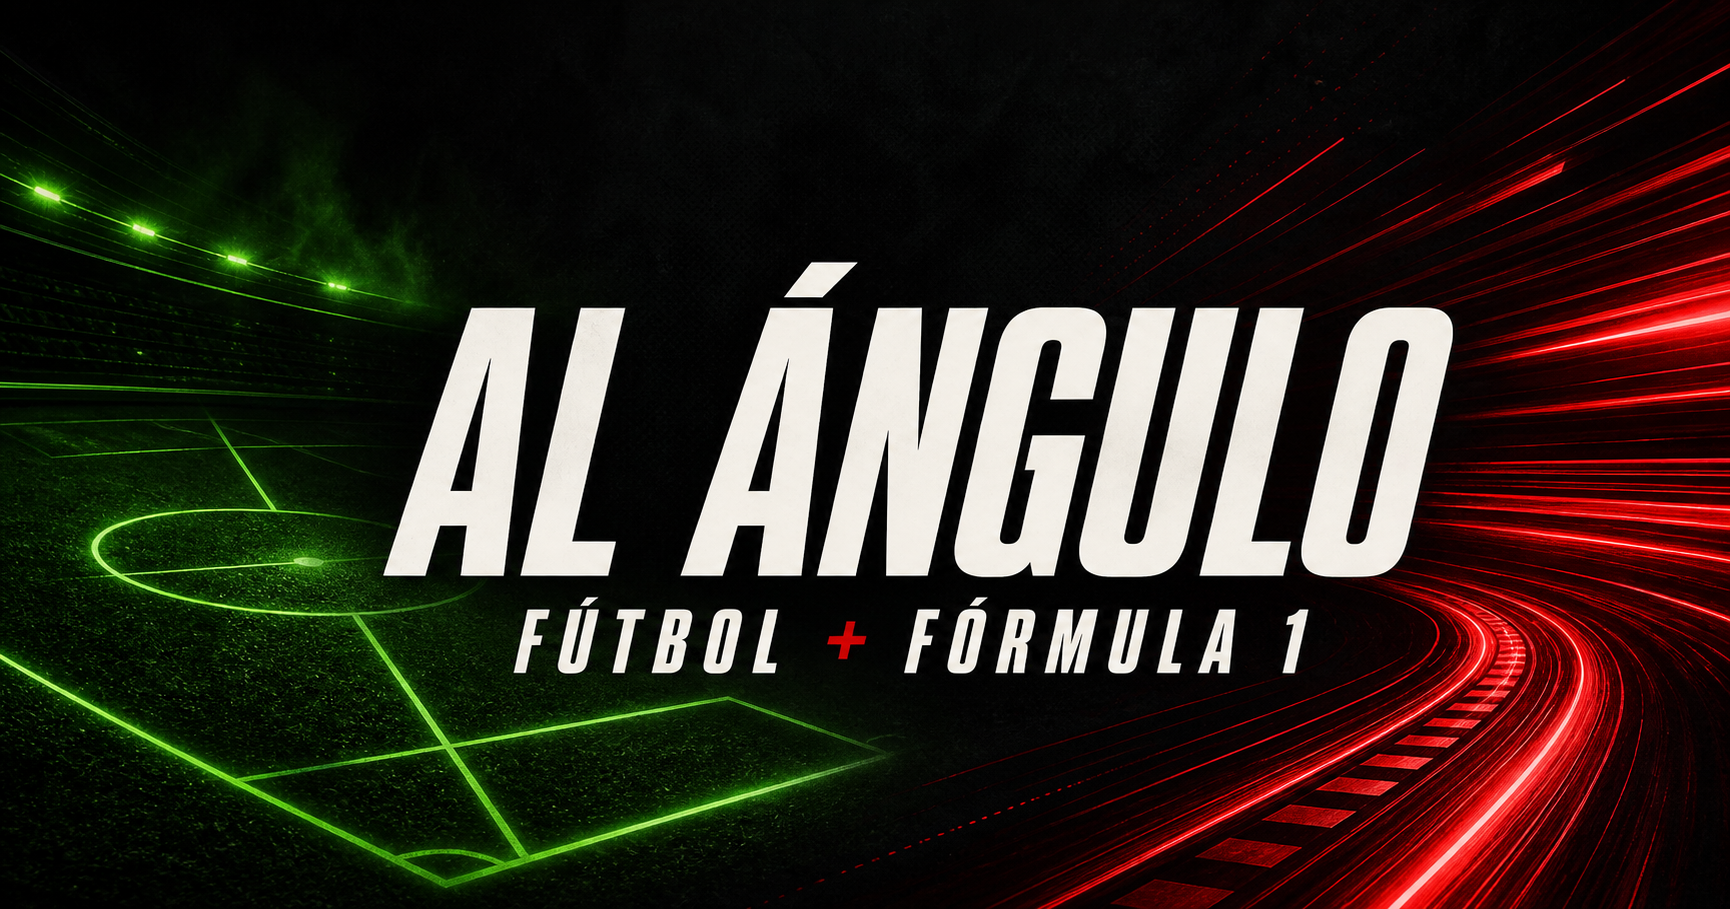
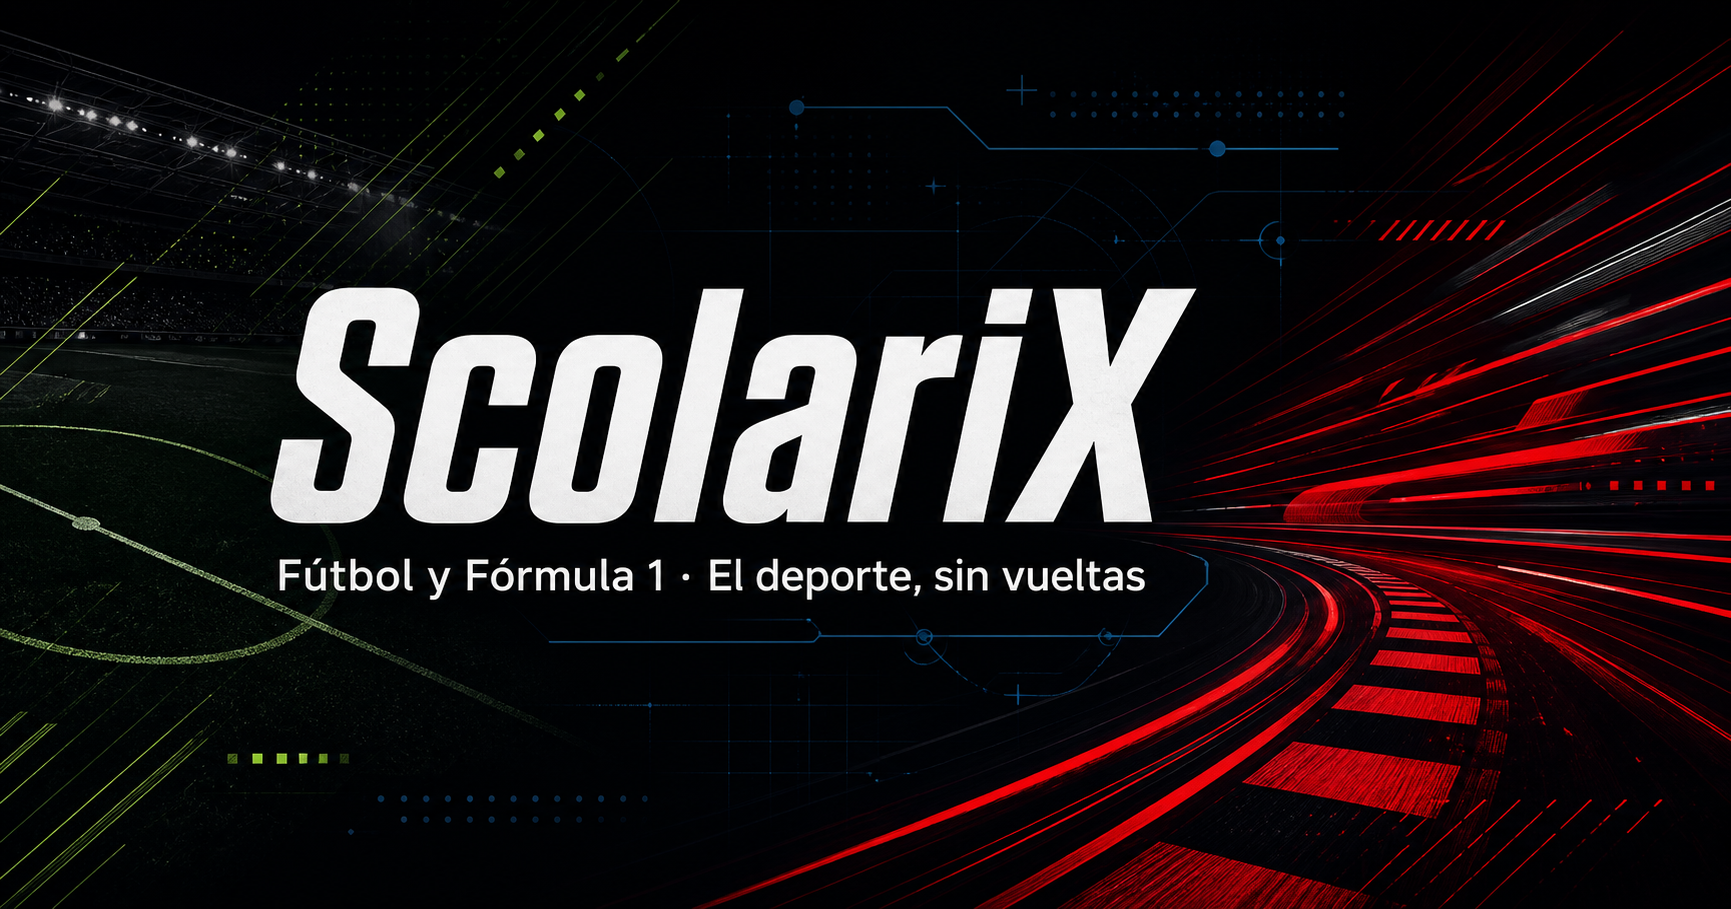
Rename site to ScolariX

diff --git a/app/page.tsx b/app/page.tsx
@@ -6,7 +6,7 @@ const PROTOTYPE_HTML = String.raw`
   <a class="skip-link" href="#contenido">Saltar al contenido</a>
   <div class="prototype-bar"><span><i></i> BETA PÚBLICA</span><p>Noticias resumidas · Datos con fuente y revisión editorial</p><time datetime="2026-08-24">Revisión: 24 AGO 2026</time></div>
   <header class="site-header">
-    <a class="brand" href="#inicio" data-route="home" aria-label="Al Ángulo, portada"><span class="brand-icon">A</span><span><b>AL ÁNGULO</b><small>SPORTS INTELLIGENCE</small></span></a>
+    <a class="brand" href="#inicio" data-route="home" aria-label="ScolariX, portada"><span class="brand-icon">SX</span><span><b>SCOLARIX</b><small>SPORTS INTELLIGENCE</small></span></a>
     <nav class="primary-nav" aria-label="Navegación principal"><button class="nav-button active" data-route="home" aria-pressed="true"><span>00</span> Portada</button><button class="nav-button football" data-route="football" aria-pressed="false"><span>01</span> Fútbol</button><button class="nav-button f1" data-route="f1" aria-pressed="false"><span>02</span> Fórmula 1</button></nav>
     <div class="header-actions"><button class="icon-button" id="open-search" aria-label="Abrir buscador">⌕</button><button class="menu-button" id="menu-button" aria-label="Abrir menú" aria-expanded="false">Menú</button></div>
   </header>
@@ -43,7 +43,7 @@ const PROTOTYPE_HTML = String.raw`
       <section class="section-wrap f1-content"><div class="f1-panel" id="f1-news-panel"><div class="news-grid" id="f1-news"></div></div><div class="f1-panel" id="f1-calendar-panel" hidden></div><div class="f1-panel" id="f1-race-panel" hidden></div><div class="f1-panel" id="f1-drivers-panel" hidden></div><div class="f1-panel" id="f1-constructors-panel" hidden></div><div class="f1-panel" id="f1-profiles-panel" hidden></div></section>
     </section>
   </main>
-  <footer><div class="footer-top"><a class="brand" href="#inicio" data-route="home"><span class="brand-icon">A</span><span><b>AL ÁNGULO</b><small>SPORTS INTELLIGENCE</small></span></a><p>Información deportiva resumida, trazable y conectada con su fuente original.</p><div class="footer-status"><i></i> BETA PÚBLICA</div></div><div class="footer-bottom"><span>© 2026 AL ÁNGULO</span><nav aria-label="Información legal"><button data-legal="legal">Aviso legal</button><button data-legal="privacy">Privacidad</button><button data-legal="cookies">Cookies</button><button data-legal="takedown">Solicitar retirada</button></nav><span>ES · PY</span></div></footer>
+  <footer><div class="footer-top"><a class="brand" href="#inicio" data-route="home"><span class="brand-icon">SX</span><span><b>SCOLARIX</b><small>SPORTS INTELLIGENCE</small></span></a><p>Información deportiva resumida, trazable y conectada con su fuente original.</p><div class="footer-status"><i></i> BETA PÚBLICA</div></div><div class="footer-bottom"><span>© 2026 SCOLARIX</span><nav aria-label="Información legal"><button data-legal="legal">Aviso legal</button><button data-legal="privacy">Privacidad</button><button data-legal="cookies">Cookies</button><button data-legal="takedown">Solicitar retirada</button></nav><span>ES · PY</span></div></footer>
   <dialog id="legal-dialog"><button class="dialog-close" aria-label="Cerrar">×</button><div id="legal-content"></div></dialog>
   <div class="search-overlay" id="search-overlay" hidden><button class="search-close" aria-label="Cerrar buscador">×</button><div><p class="overline">BUSCADOR GLOBAL</p><label for="global-search">¿Qué querés encontrar?</label><input id="global-search" type="search" placeholder="Noticias, competiciones, pilotos…" autocomplete="off"><p id="search-count">Escribí al menos dos caracteres.</p><div id="search-results"></div></div></div>
   <div class="cookie-banner" id="cookie-banner" role="dialog" aria-label="Preferencias de cookies"><div><b>Cookies en esta beta</b><p>Solo usamos funcionamiento esencial. Las preferencias no se guardan fuera de esta sesión.</p></div><button id="reject-cookies">Solo esenciales</button><button class="accept" id="accept-cookies">Aceptar</button></div>

diff --git a/index.html b/index.html
@@ -6,7 +6,7 @@
   <meta name="description" content="Portal deportivo de fútbol y Fórmula 1 con noticias resumidas, resultados y fuentes oficiales.">
   <meta name="robots" content="index, follow">
   <meta name="theme-color" content="#070b0d">
-  <title>AL ÁNGULO — Fútbol y Fórmula 1</title>
+  <title>SCOLARIX — Fútbol y Fórmula 1</title>
   <link rel="stylesheet" href="app/globals.css">
   <script type="module" src="app/site.js"></script>
 </head>
@@ -20,9 +20,9 @@
   </div>
 
   <header class="site-header">
-    <a class="brand" href="#inicio" data-route="home" aria-label="Al Ángulo, portada">
-      <span class="brand-icon">A</span>
-      <span><b>AL ÁNGULO</b><small>SPORTS INTELLIGENCE</small></span>
+    <a class="brand" href="#inicio" data-route="home" aria-label="ScolariX, portada">
+      <span class="brand-icon">SX</span>
+      <span><b>SCOLARIX</b><small>SPORTS INTELLIGENCE</small></span>
     </a>
 
     <nav class="primary-nav" aria-label="Navegación principal">
@@ -192,8 +192,8 @@
   </main>
 
   <footer>
-    <div class="footer-top"><a class="brand" href="#inicio" data-route="home"><span class="brand-icon">A</span><span><b>AL ÁNGULO</b><small>SPORTS INTELLIGENCE</small></span></a><p>Información deportiva resumida, trazable y conectada con su fuente original.</p><div class="footer-status"><i></i> Prototipo · Sin publicación comercial</div></div>
-    <div class="footer-bottom"><span>© 2026 AL ÁNGULO · DEMO</span><nav aria-label="Información legal"><button data-legal="legal">Aviso legal</button><button data-legal="privacy">Privacidad</button><button data-legal="cookies">Cookies</button><button data-legal="takedown">Solicitar retirada</button></nav><span>ES · PY</span></div>
+    <div class="footer-top"><a class="brand" href="#inicio" data-route="home"><span class="brand-icon">SX</span><span><b>SCOLARIX</b><small>SPORTS INTELLIGENCE</small></span></a><p>Información deportiva resumida, trazable y conectada con su fuente original.</p><div class="footer-status"><i></i> Prototipo · Sin publicación comercial</div></div>
+    <div class="footer-bottom"><span>© 2026 SCOLARIX · DEMO</span><nav aria-label="Información legal"><button data-legal="legal">Aviso legal</button><button data-legal="privacy">Privacidad</button><button data-legal="cookies">Cookies</button><button data-legal="takedown">Solicitar retirada</button></nav><span>ES · PY</span></div>
   </footer>
 
   <dialog id="legal-dialog"><button class="dialog-close" aria-label="Cerrar">×</button><div id="legal-content"></div></dialog>

diff --git a/app/layout.tsx b/app/layout.tsx
@@ -3,16 +3,16 @@ import './styles/globals.css';
 
 export const metadata: Metadata = {
   metadataBase: new URL('https://al-angulo-deportes.scolari-rodney.chatgpt.site'),
-  title: 'Al Ángulo | El deporte, sin vueltas',
+  title: 'ScolariX | El deporte, sin vueltas',
   description: 'Noticias, resultados y clasificaciones de fútbol y Fórmula 1 con fuentes visibles.',
   openGraph: {
-    title: 'Al Ángulo | El deporte, sin vueltas',
+    title: 'ScolariX | El deporte, sin vueltas',
     description: 'Noticias, resultados y clasificaciones de fútbol y Fórmula 1 con fuentes visibles.',
-    images: [{ url: 'https://al-angulo-deportes.scolari-rodney.chatgpt.site/og.png', width: 1200, height: 630, alt: 'Al Ángulo, fútbol y Fórmula 1' }],
+    images: [{ url: 'https://al-angulo-deportes.scolari-rodney.chatgpt.site/og.png', width: 1200, height: 630, alt: 'ScolariX, fútbol y Fórmula 1' }],
   },
   twitter: {
     card: 'summary_large_image',
-    title: 'Al Ángulo | El deporte, sin vueltas',
+    title: 'ScolariX | El deporte, sin vueltas',
     description: 'Noticias, resultados y clasificaciones de fútbol y Fórmula 1 con fuentes visibles.',
     images: ['https://al-angulo-deportes.scolari-rodney.chatgpt.site/og.png'],
   },

diff --git a/app/styles/globals.css b/app/styles/globals.css
@@ -34,7 +34,7 @@ a { color: inherit; text-decoration: none; }
 
 .site-header { position: sticky; top: 0; z-index: 100; height: 84px; padding: 0 clamp(18px, 4vw, 68px); display: grid; grid-template-columns: 1fr auto 1fr; align-items: center; gap: 28px; background: rgba(7,11,13,.92); border-bottom: 1px solid var(--line); backdrop-filter: blur(18px); }
 .brand { display: inline-flex; align-items: center; gap: 11px; width: fit-content; }
-.brand-icon { width: 42px; height: 42px; display: grid; place-items: center; color: #04100c; background: var(--football); border-radius: 4px 13px 4px 4px; font-weight: 1000; font-size: 25px; font-style: italic; transform: skew(-5deg); box-shadow: inset -5px -5px 0 rgba(0,0,0,.12); }
+.brand-icon { width: 42px; height: 42px; display: grid; place-items: center; color: #04100c; background: var(--football); border-radius: 4px 13px 4px 4px; font-weight: 1000; font-size: 15px; letter-spacing: -.08em; font-style: italic; transform: skew(-5deg); box-shadow: inset -5px -5px 0 rgba(0,0,0,.12); }
 .brand-icon.small { width: 30px; height: 30px; font-size: 17px; }
 .brand > span:last-child { display: flex; flex-direction: column; }
 .brand b { font-size: 17px; line-height: 1; letter-spacing: -.055em; }

diff --git a/docs/PROJECT_PORTFOLIO.md b/docs/PROJECT_PORTFOLIO.md
@@ -1,8 +1,8 @@
-# Portafolio del proyecto Al Ángulo
+# Portafolio del proyecto ScolariX
 
 ## Resumen
 
-Al Ángulo es un prototipo de producto editorial deportivo que reúne fútbol y Fórmula 1 en una sola experiencia. Nació en el chat **“Crea página de fútbol de prueba”** a partir de referencias de UEFA, Formula1.com, APF y Google News.
+ScolariX es un prototipo de producto editorial deportivo que reúne fútbol y Fórmula 1 en una sola experiencia. Nació en el chat **“Crea página de fútbol de prueba”** a partir de referencias de UEFA, Formula1.com, APF y Google News.
 
 Su propuesta central es facilitar la consulta sin ocultar el origen: cada registro debe mantener fuente, enlace y fecha de revisión. El sitio publica resúmenes propios y no reproduce artículos completos ni materiales de terceros sin autorización.
 
